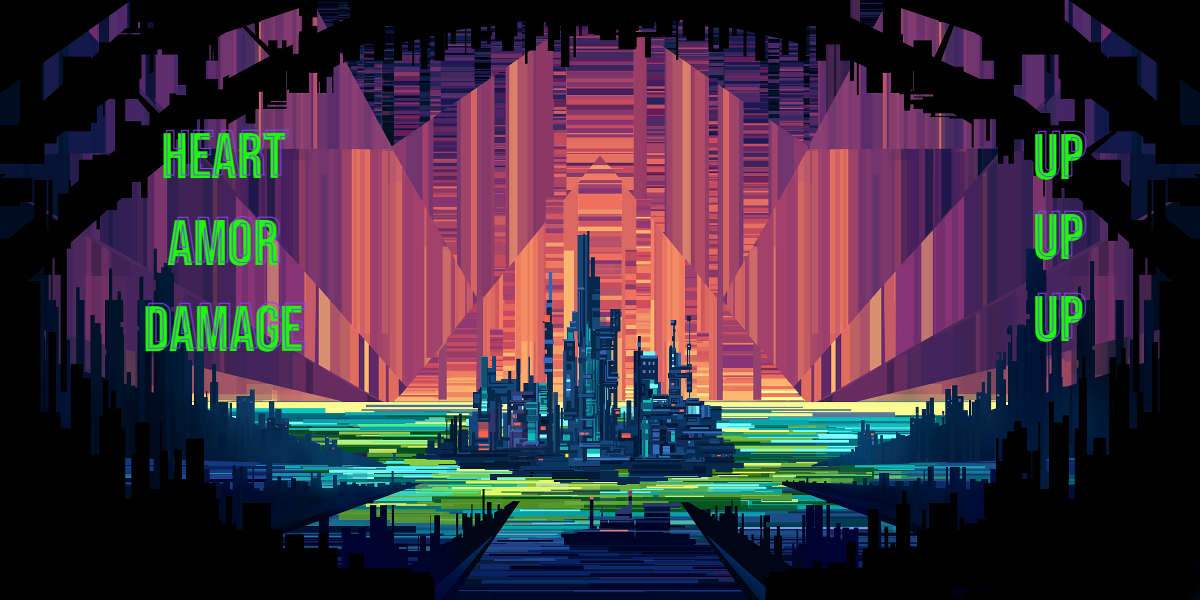
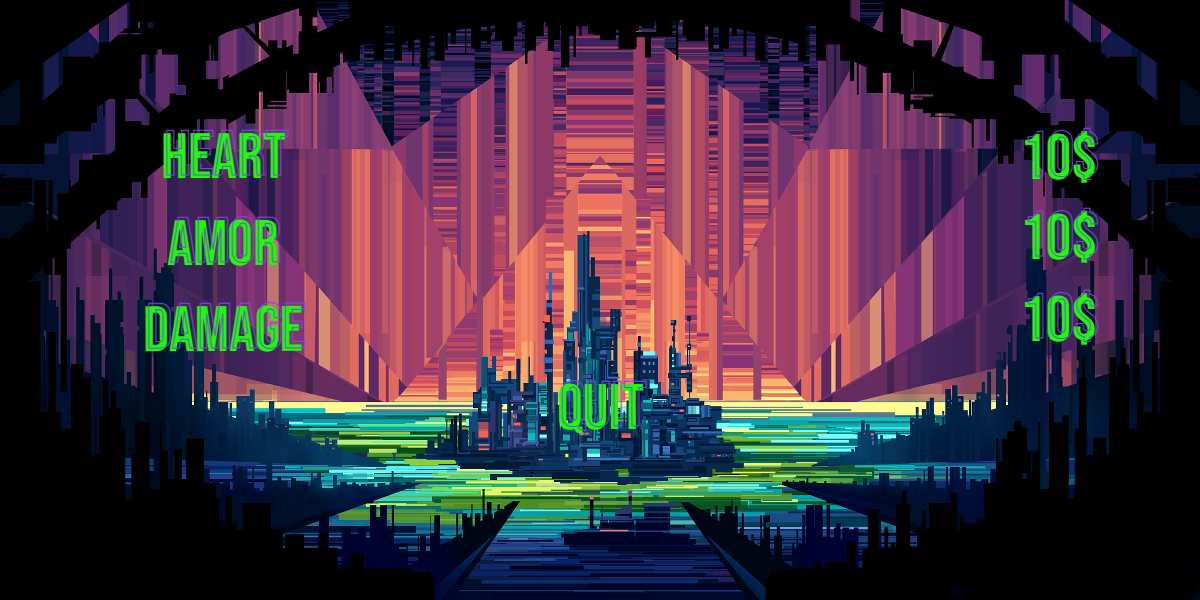
commit

diff --git a/background.cpp b/background.cpp
@@ -5,7 +5,9 @@
 
 Background::Background() {
 	startTime = 0;
-	mRect.x = mRect.y = mRect.w = mRect.h = 0;
+	mRect.x = mRect.y = 0;
+	mRect.w = SCREEN_WIDTH;
+	mRect.h = SCREEN_HEIGHT;
 	mState = START;
 }
 
@@ -117,7 +119,10 @@ void Background::handleState(BackgroundType &s, SDL_Renderer* renderer, std::pai
 	case SHOP:
 		if (mouse.first >= 550 && mouse.first <= 650 && mouse.second >= 240 && mouse.second <= 290) {
 			if (event.type == SDL_MOUSEBUTTONDOWN) {
-				hero->loadImage(renderer, HERO_PATHS3);
+				if (hero->getCoin() >= 10) {
+					hero->setCoin(hero->getCoin() - 10);
+					hero->loadImage(renderer, HERO_PATHS3);
+				}
 			}
 			SDL_Rect rect = { 550, 240, 100, 50 };
 			SDL_SetRenderDrawColor(renderer, 0, 253, 253, 150);
@@ -128,7 +133,10 @@ void Background::handleState(BackgroundType &s, SDL_Renderer* renderer, std::pai
 		}
 		else if (mouse.first >= 230 && mouse.first <= 330 && mouse.second >= 240 && mouse.second <= 290) {
 			if (event.type == SDL_MOUSEBUTTONDOWN) {
-				hero->loadImage(renderer, HERO_PATHS1);
+				if (hero->getCoin() >= 10) {
+					hero->setCoin(hero->getCoin() - 10);
+					hero->loadImage(renderer, HERO_PATHS1);
+				}
 			}
 			SDL_Rect rect = { 230, 240, 100, 50 };
 			SDL_SetRenderDrawColor(renderer, 0, 253, 253, 150);
@@ -139,7 +147,10 @@ void Background::handleState(BackgroundType &s, SDL_Renderer* renderer, std::pai
 		}
 		else if (mouse.first >= 860 && mouse.first <= 960 && mouse.second >= 240 && mouse.second <= 290) {
 			if (event.type == SDL_MOUSEBUTTONDOWN) {
-				hero->loadImage(renderer, HERO_PATHS2);
+				if (hero->getCoin() >= 10) {
+					hero->setCoin(hero->getCoin() - 10);
+					hero->loadImage(renderer, HERO_PATHS2);
+				}
 			}
 			SDL_Rect rect = { 860, 240, 100, 50 };
 			SDL_SetRenderDrawColor(renderer, 0, 253, 253, 150);
@@ -209,40 +220,40 @@ void Background::handleState(BackgroundType &s, SDL_Renderer* renderer, std::pai
 			SDL_RenderFillRect(renderer, &rect);
 			SDL_SetRenderDrawBlendMode(renderer, SDL_BLENDMODE_NONE);
 		}
-		else if (mouse.first >= 1030 && mouse.first <= 1080 && mouse.second >= 130 && mouse.second <= 180) {
+		else if (mouse.first >= 1030 && mouse.first <= 1090 && mouse.second >= 130 && mouse.second <= 180) {
 			if (event.type == SDL_MOUSEBUTTONDOWN) {
 				if (hero->getCoin() >= 10 && hero->getMaxHeart() < 110) {
 					hero->setCoin(hero->getCoin() - 10);
 					hero->setMaxHeart(hero->getMaxHeart() + 10);
 				}
 			}
-			SDL_Rect rect = { 1030, 130, 50, 50 };
+			SDL_Rect rect = { 1030, 130, 60, 50 };
 			SDL_SetRenderDrawColor(renderer, 0, 253, 253, 150);
 			SDL_SetRenderDrawBlendMode(renderer, SDL_BLENDMODE_BLEND);
 			SDL_RenderFillRect(renderer, &rect);
 			SDL_SetRenderDrawBlendMode(renderer, SDL_BLENDMODE_NONE);
 		}
-		else if (mouse.first >= 1030 && mouse.first <= 1080 && mouse.second >= 210 && mouse.second <= 260) {
+		else if (mouse.first >= 1030 && mouse.first <= 1090 && mouse.second >= 210 && mouse.second <= 260) {
 			if (event.type == SDL_MOUSEBUTTONDOWN) {
 				if (hero->getCoin() >= 10 && hero->getAmor() < 6) {
 					hero->setCoin(hero->getCoin() - 10);
 					hero->setAmor(hero->getAmor() + 1);
 				}
 			}
-			SDL_Rect rect = { 1030, 210, 50, 50 };
+			SDL_Rect rect = { 1030, 210, 60, 50 };
 			SDL_SetRenderDrawColor(renderer, 0, 253, 253, 150);
 			SDL_SetRenderDrawBlendMode(renderer, SDL_BLENDMODE_BLEND);
 			SDL_RenderFillRect(renderer, &rect);
 			SDL_SetRenderDrawBlendMode(renderer, SDL_BLENDMODE_NONE);
 		}
-		else if (mouse.first >= 1030 && mouse.first <= 1080 && mouse.second >= 290 && mouse.second <= 340) {
+		else if (mouse.first >= 1030 && mouse.first <= 1090 && mouse.second >= 290 && mouse.second <= 340) {
 			if (event.type == SDL_MOUSEBUTTONDOWN) {
 				if (hero->getCoin() >= 10 && hero->getAttack() < 35) {
 					hero->setCoin(hero->getCoin() - 10);
 					hero->setAttack(hero->getAttack() + 5);
 				}
 			}
-			SDL_Rect rect = { 1030, 290, 50, 50 };
+			SDL_Rect rect = { 1030, 290, 60, 50 };
 			SDL_SetRenderDrawColor(renderer, 0, 253, 253, 150);
 			SDL_SetRenderDrawBlendMode(renderer, SDL_BLENDMODE_BLEND);
 			SDL_RenderFillRect(renderer, &rect);

diff --git a/main.cpp b/main.cpp
@@ -19,17 +19,13 @@ Text gCoin;
 
 void loadResource() {
 	background.loadImage(gRenderer, BACKGROUND_PATHS);
-	background.setRect(0, 0, 1200, 600);
-
+	
 	hero.loadImage(gRenderer, HERO_PATHS1);
-	hero.setRect(0, 200);
 	
 	bot1.loadImage(gRenderer, BOT1_PATHS);
-	bot1.setRect(SCREEN_WIDTH, 100);
 	bot1.setShipType(ShipType::SHIP1);
 
 	bot2.loadImage(gRenderer, BOT2_PATHS);
-	bot2.setRect(SCREEN_WIDTH, 300);
 	bot2.setShipType(ShipType::SHIP1);
 
 	bot3.loadImage(gRenderer, BOT3_PATHS);
@@ -37,10 +33,11 @@ void loadResource() {
 	bot3.setShipType(ShipType::SHIP2);
 	
 	gScore.setRect(0, 0);
-	gCoin.setRect(0, 100);
+	gCoin.setRect(0, 50);
 
 	collisionMusic = Mix_LoadWAV("Music_Folder/music1.wav");
 	backgroundMusic = Mix_LoadWAV("Music_Folder/music2.wav");
+	
 }
 
 
@@ -84,6 +81,18 @@ void handleColision() {
 			//Mix_PlayChannel(-1, collisionMusic, 0);
 		}
 	}
+	if (checkConllision(hero, bot1) && bot1.getHeart() != 0) {
+		hero.getDamage(10);
+		bot1.getDamage(1000);
+	}
+	if (checkConllision(hero, bot2) && bot2.getHeart() != 0) {
+		hero.getDamage(10);
+		bot2.getDamage(1000);
+	}
+	if (checkConllision(hero, bot3) && bot3.getHeart() != 0) {
+		hero.getDamage(10);
+		bot3.getDamage(1000);
+	}
 }
 
 void Init() {
@@ -108,6 +117,7 @@ void Close() {
 	Mix_CloseAudio();
 }
 
+
 int main(int argc, char* argv[]) {
 	Init();
 	loadResource();
@@ -116,22 +126,28 @@ int main(int argc, char* argv[]) {
 		//Mix_PlayChannel(-1, backgroundMusic, 0);
 		background.render(gRenderer);
 		background.handleState(gState, gRenderer, gMouse, gEvent, &hero);
+		
+		while (SDL_PollEvent(&gEvent)) {
+			if (gEvent.type == SDL_QUIT) {
+				isQuit = true;
+			}
+			background.handleState(gState, gRenderer, gMouse, gEvent, &hero);
+			SDL_GetMouseState(&gMouse.first, &gMouse.second);
+			if (gState == LEVEL_1 || gState == LEVEL_2) {
+				hero.handleAction(gEvent, gRenderer);
+			}
+		}
 
 		switch (gState) {
 		
 		case UPGRADE:
+		case SHOP:
+			gCoin.loadNumber(gRenderer, hero.getCoin(), "Coin");
+			gCoin.render(gRenderer);
+			break;
 		case START:
 		case DEAD:
-		case SHOP:
 		case VICTORY:
-			while (SDL_PollEvent(&gEvent)) {
-				if (gEvent.type == SDL_QUIT) {
-					isQuit = true;
-				}
-				background.handleState(gState, gRenderer, gMouse, gEvent, &hero);
-				SDL_GetMouseState(&gMouse.first, &gMouse.second);
-			}
-			
 			break;
 		case LEVEL_1:
 		case LEVEL_2:
@@ -139,14 +155,11 @@ int main(int argc, char* argv[]) {
 				if (gEvent.type == SDL_QUIT) {
 					isQuit = true;
 				}
-				hero.handleAction(gEvent, gRenderer);
 			}
 			gScore.loadNumber(gRenderer, score, "Score");
-			gScore.setRect(0, 0);
 			gScore.render(gRenderer);
-			
+
 			gCoin.loadNumber(gRenderer, hero.getCoin(), "Coin");
-			gCoin.setRect(0, 100);
 			gCoin.render(gRenderer);
 
 			handleColision();
@@ -187,3 +200,4 @@ int main(int argc, char* argv[]) {
 	Close();
 	return 0;
 }
+

diff --git a/CommonFunction.h b/CommonFunction.h
@@ -35,7 +35,7 @@ static std::vector<std::string> BOT1_PATHS = { "Image_Folder/Airplane/Bot/Bomber
 static std::vector<std::string> BOT2_PATHS = { "Image_Folder/Airplane/Bot/Fighter/Idle.png", "Image_Folder/Airplane/Bot/Fighter/Destroyed.png", "Image_Folder/Airplane/Bot/Fighter/Attack_1.png" };
 static std::vector<std::string> BOT3_PATHS = { "Image_Folder/Airplane/Bot/Corvette/Idle.png", "Image_Folder/Airplane/Bot/Corvette/Destroyed.png", "Image_Folder/Airplane/Bot/Corvette/Attack_1.png" };
 
-static std::vector<std::string> BACKGROUND_PATHS = { "Image_Folder/Background/Start.png", "Image_Folder/Background/Level_1.jpg", "Image_Folder/Level_2.png" , "Image_Folder/Background/Lose.png", "Image_Folder/Background/Shop.png", "Image_Folder/Background/Victory.png", "Image_Folder/Background/Upgrade.png" };
+static std::vector<std::string> BACKGROUND_PATHS = { "Image_Folder/Background/Start.png", "Image_Folder/Background/Level_1.jpg", "Image_Folder/Background/Level_2.png" , "Image_Folder/Background/Lose.png", "Image_Folder/Background/Shop.png", "Image_Folder/Background/Victory.png", "Image_Folder/Background/Upgrade.png" };
 
 
 

diff --git a/Character.cpp b/Character.cpp
@@ -6,7 +6,9 @@ Character::Character() {
 	mMaxHeart = 50;
 	mHeart = 50;
 	mAttack = 5;
-	mCoin = 1000;
+	mCoin = 20;
+	mRect.x = 0;
+	mRect.y = 200;
 }
 
 Character::~Character() {
@@ -18,13 +20,13 @@ void Character::handleAction(const SDL_Event &event, SDL_Renderer* renderer) {
 	if (event.type == SDL_KEYDOWN) {
 		switch (event.key.keysym.sym) {
 		case SDLK_UP:
-			mYVal = -3;
+			mYVal = -2;
 			if (mState == NORMAL) {
 				mState = BOOSTING;
 			}
 			break;
 		case SDLK_DOWN:
-			mYVal = 3;
+			mYVal = 2;
 			if (mState == NORMAL) {
 				mState = BOOSTING;
 			}
@@ -33,13 +35,13 @@ void Character::handleAction(const SDL_Event &event, SDL_Renderer* renderer) {
 			if (mState == NORMAL) {
 				mState = BOOSTING;
 			}
-			mXVal = 3;
+			mXVal = 2;
 			break;
 		case SDLK_LEFT:
 			if (mState == NORMAL) {
 				mState = BOOSTING;
 			}
-			mXVal = -3;
+			mXVal = -2;
 			break;
 		case SDLK_d:
 			if (mState == NORMAL) {

diff --git a/Text.cpp b/Text.cpp
@@ -10,7 +10,6 @@ Text::~Text() {
 
 void Text::loadText(SDL_Renderer* renderer, std::string content) {
 	free();
-
 	TTF_Font *font = TTF_OpenFont("Font_folder/Font2.ttf", 24);
 	SDL_Surface* textSurface = TTF_RenderText_Solid(font, content.c_str(), gTextColor);
 	mRect.w = textSurface->w;

diff --git a/BaseClass.cpp b/BaseClass.cpp
@@ -39,7 +39,7 @@ void BaseClass::free() {
 	if (mTexture != nullptr) {
 		SDL_DestroyTexture(mTexture);
 		mTexture = nullptr;
-		mRect.x = mRect.y = mRect.w = mRect.h = 0;
+		mRect.w = mRect.h = 0;
 	}
 }
 

diff --git a/Bot.cpp b/Bot.cpp
@@ -1,7 +1,7 @@
 #include "Bot.h"
 
 Bot::Bot() {
-	mRect.x = SCREEN_WIDTH;
+	mRect.x = SCREEN_WIDTH + rand() % 400;
 	mRect.y = rand() % 400;
 	mAttack = 1;
 	mMaxHeart = 100;

diff --git a/Text.h b/Text.h
@@ -10,7 +10,6 @@ class Text : public BaseClass {
 		void loadNumber(SDL_Renderer* renderer, int, std::string);
 	private:
 		
-
 };
 
 #endif
